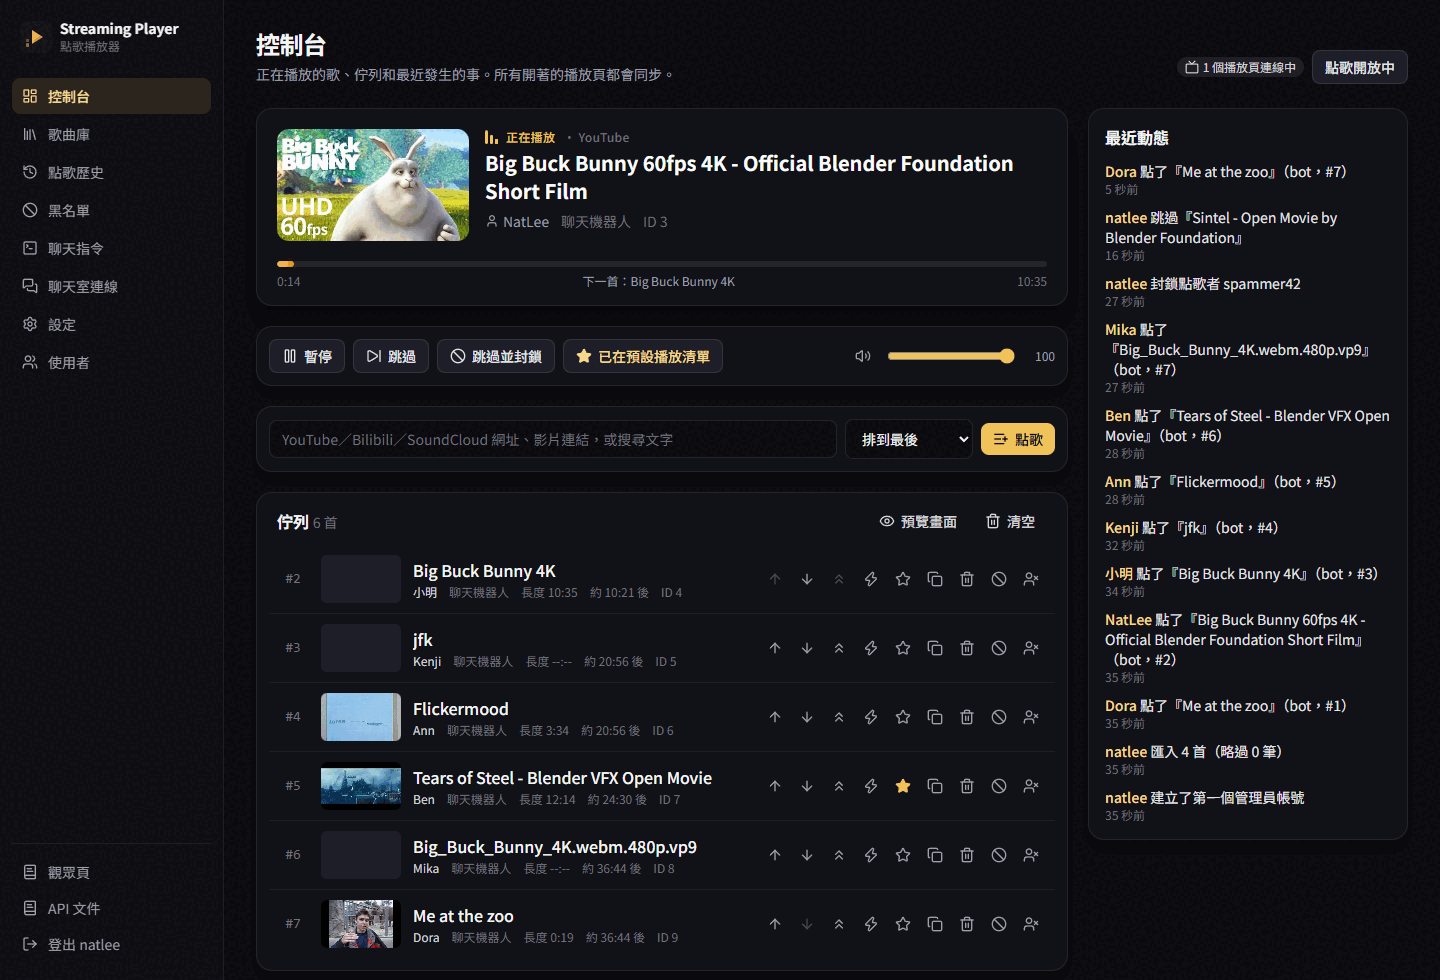
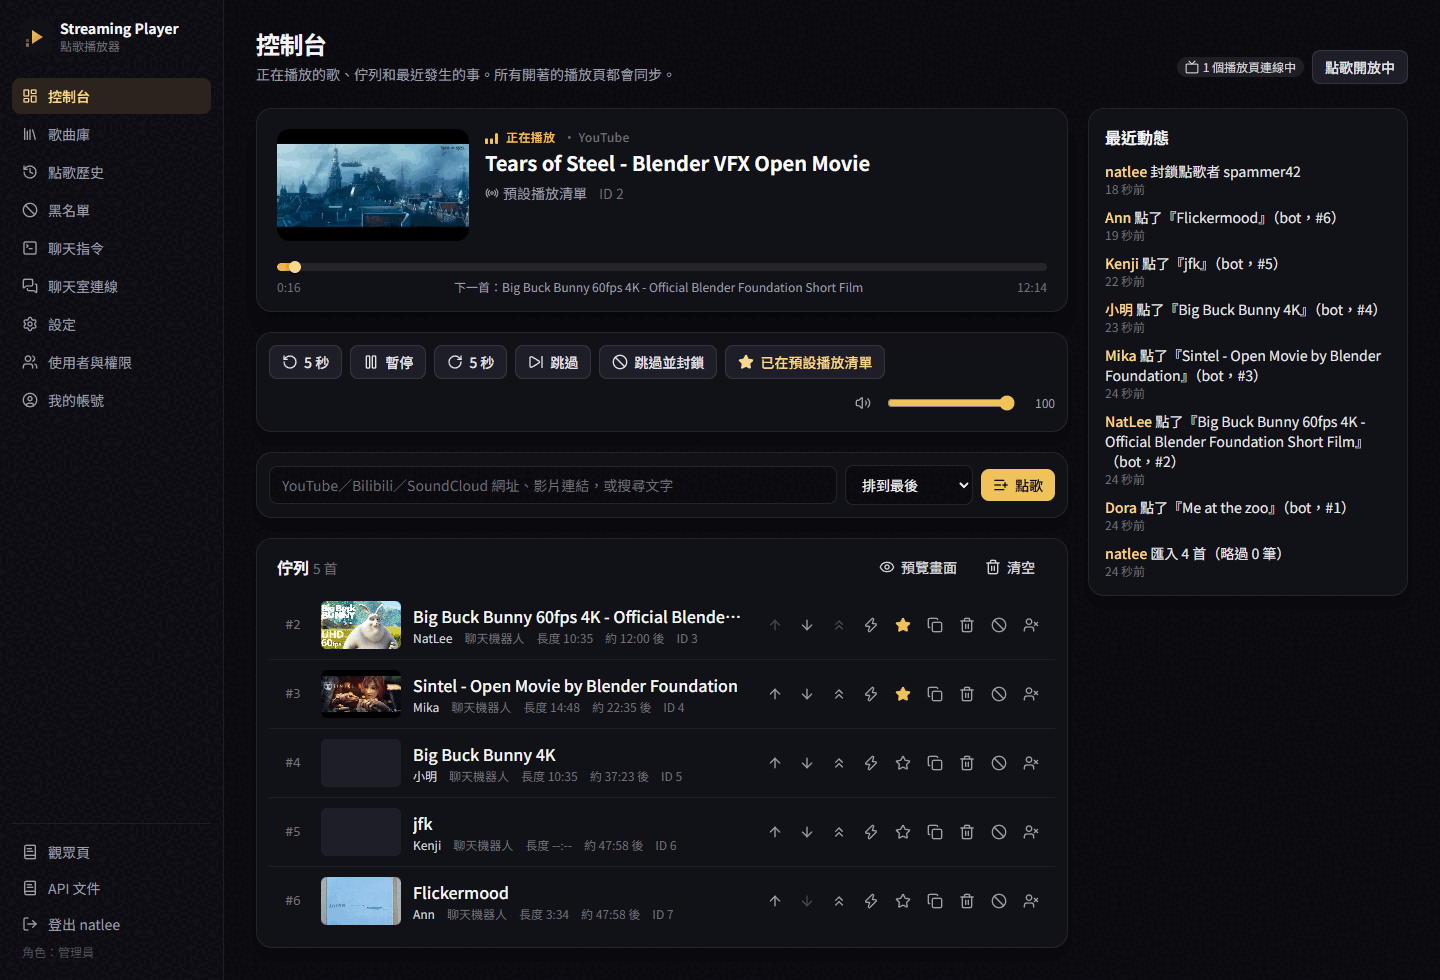
docs: seeking, and a dashboard screenshot that shows it
README, the OBS guide, the permission table and the sync diagram mention
the seek bar, the 5-second buttons and POST /api/player/seek. The dashboard
screenshot was still from before accounts existed; the new one comes from
the same seed data with the new controls.

diff --git a/README.md b/README.md
@@ -25,7 +25,7 @@ Streaming Player is a self-hosted song request player for live streams. Viewers 
 - **Requests from anywhere.** Twitch chat (EventSub, replies in chat), YouTube live chat (Live Chat API with an API key), and a plain HTTP API for chat bots. All of them go through one table of commands whose words, permissions, cooldowns and reply texts you edit on the admin page.
 - **A queue with rules.** Queue size, songs per person, maximum length, duplicates, vote-to-skip and vote-to-bump thresholds, a block list for people and for songs. Moderators can bypass the limits. When the queue is empty, the default playlist (your starred songs) keeps the music going.
 - **Made for OBS.** A player page and a transparent "now playing" overlay, each one browser source. Every open player page stays in sync over WebSocket, and only one of them moves the queue on.
-- **Control while live.** Play, pause, skip, skip and block, volume, reorder, play next, interrupt, remove, block the requester, all from the dashboard or from chat for moderators.
+- **Control while live.** Play, pause, skip, skip and block, drag the progress bar or jump 5 seconds back and forward, volume, reorder, play next, interrupt, remove, block the requester, all from the dashboard or from chat for moderators.
 - **For viewers.** A public queue page (`/queue`) where anyone can look up their own requests, and (if you allow it) sign-up at `/register` to request from the web.
 - **Accounts with permissions.** Roles are sets of permission points (control the player, manage the queue, the library, the block list, commands, settings, users). Admin, moderator and viewer are built in; make your own. Programs sign in with access tokens or personal API tokens.
 - **Backups.** Settings, commands and the block list export to one JSON file; the song library to CSV or JSON.
@@ -135,7 +135,7 @@ More in [how it works](docs/architecture.md): the playback sync, the media paths
 
 | Admin dashboard (`/admin`) | Viewer page (`/queue`) |
 |---|---|
-| <img src="https://raw.githubusercontent.com/NatLee/streaming-player/main/docs/images/admin-dashboard.png" alt="Admin dashboard: the song on air with play, pause, skip, skip-and-block, default-playlist and volume controls; the request box; the queue with move, play next, interrupt, favorite, copy, remove and block buttons; the activity log"> | <img src="https://raw.githubusercontent.com/NatLee/streaming-player/main/docs/images/viewer.png" alt="Viewer page: now playing, a box to look up your own requests (Mika's waiting and past songs), and the queue with positions and waiting times"> |
+| <img src="https://raw.githubusercontent.com/NatLee/streaming-player/main/docs/images/admin-dashboard.png" alt="Admin dashboard: the song on air with a draggable progress bar; back 5 s, pause, forward 5 s, skip, skip-and-block, default-playlist and volume controls; the request box; the queue with move, play next, interrupt, favorite, copy, remove and block buttons; the activity log"> | <img src="https://raw.githubusercontent.com/NatLee/streaming-player/main/docs/images/viewer.png" alt="Viewer page: now playing, a box to look up your own requests (Mika's waiting and past songs), and the queue with positions and waiting times"> |
 
 The admin pages also cover the song library (default playlist, block list, songs that went missing, CSV/JSON import and export), request history with per-person statistics, the chat commands, the chat connections, settings and users. The HTTP API is in Swagger UI at `/api/docs/`.
 
@@ -196,7 +196,7 @@ Everyone who signs in has a role, and a role is a set of permission points:
 
 | Permission | Lets you |
 |---|---|
-| `player.control` | play, pause, skip, volume (and be an OBS player page with your session) |
+| `player.control` | play, pause, skip, seek, volume (and be an OBS player page with your session) |
 | `queue.view` / `queue.request` | watch the queue / request songs from the web page, under the queue rules |
 | `queue.manage` | reorder, play next, interrupt, remove, add songs without the limits |
 | `library.manage`, `blocklist.manage`, `history.view` | the song library and default playlist, the block list, history and the activity log |
@@ -219,6 +219,9 @@ curl -s -H 'content-type: application/json' -d '{"username":"natlee","password":
 # {"access_token":"eyJ…","refresh_token":"8f3…","token_type":"Bearer","expires_in":900,"refresh_expires_in":2592000}
 
 curl -s -X POST -H "Authorization: Bearer eyJ…" http://localhost:7878/api/player/skip
+# Jump 5 s ahead (or {"position_ms": 90000} to go to 1:30)
+curl -s -X POST -H "Authorization: Bearer eyJ…" -H 'content-type: application/json' \
+  -d '{"offset_ms": 5000}' http://localhost:7878/api/player/seek
 ```
 
 `/api/auth/refresh` trades a refresh token for a new pair (the old one stops working) and `/api/auth/revoke` cancels one. Changing your password or being disabled signs out every session and token. For a Stream Deck or Streamer.bot button, make a **personal API token** (`spat_…`) on **我的帳號**: it never expires unless you say so, and it can only do what you ticked. Details: [users and permissions](docs/users-and-permissions.md).

diff --git a/docs/architecture.md b/docs/architecture.md
@@ -57,6 +57,11 @@ sequenceDiagram
     S-->>F: state {elapsed_ms}
     Note over F: seek if more than 3 s off
   end
+  Note over S: admin seeks (+5 s or the bar): clock moves, seek_seq 0 → 1
+  S-->>L: state {elapsed_ms, seek_seq: 1}
+  S-->>F: state {elapsed_ms, seek_seq: 1}
+  Note over L,F: both jump to elapsed_ms
+  L->>S: progress {position_ms, seek_seq: 1}
   L->>S: ended {request_id: 12}
   F--xS: ended (ignored: not the leader)
   S-->>L: state {now: #13}
@@ -66,6 +71,7 @@ sequenceDiagram
 - The oldest connected player page leads. Only its reports move the queue, and every report names the request, so a late or repeated `ended` changes nothing.
 - The server's clock (`player.rs`) stores where the leader was and when, so a page that joins mid-song starts at the right spot.
 - Pause, resume, skip and volume change the shared state, and every page follows.
+- A seek (`POST /api/player/seek`, a position or an offset) moves the server's clock and raises `seek_seq`. Every player page, the leader too, jumps when `seek_seq` changes, and sends the number it has applied with its reports. The server drops reports with an older number, so a progress report written just before the jump can't pull the clock back.
 - An error report (or an embed error with the fallback off) counts a failure for the song. After `missing_after_failures` failures in a row, the song is marked missing (v1 issue #2).
 - Songs whose length the site didn't tell are measured by the player; if they turn out longer than the limit, they are skipped.
 

diff --git a/docs/users-and-permissions.md b/docs/users-and-permissions.md
@@ -6,7 +6,7 @@ Everyone who signs in to the web page has one **role**. A role is a set of **per
 
 | Id | Lets you |
 |---|---|
-| `player.control` | Play, pause, skip, volume. Open `/obs/player` with your session (it reports when songs end). |
+| `player.control` | Play, pause, skip, seek, volume. Open `/obs/player` with your session (it reports when songs end). |
 | `queue.view` | See the queue, the player state and the live updates (dashboard, overlay). |
 | `queue.request` | Request songs from the web page. The queue rules apply, as for chat. |
 | `queue.manage` | Reorder, play next, interrupt, remove, clear; add songs without the limits, at any place. |

diff --git a/docs/obs.md b/docs/obs.md
@@ -40,6 +40,8 @@ Every open player page (OBS on the stream PC, a laptop, a phone) shows the same 
 
 Pause, resume, skip and volume on the admin page (or from chat moderators) reach every player page at once.
 
+To move within a song, drag the progress bar on the dashboard (or focus it and use the arrow keys), or press the 5-second back and forward buttons beside pause. The server moves its clock and every player page jumps there, the leader included; this also works while paused. The bar becomes draggable once a player page has started the song and its length is known.
+
 ## Volume
 
 There are two volume controls on purpose:
